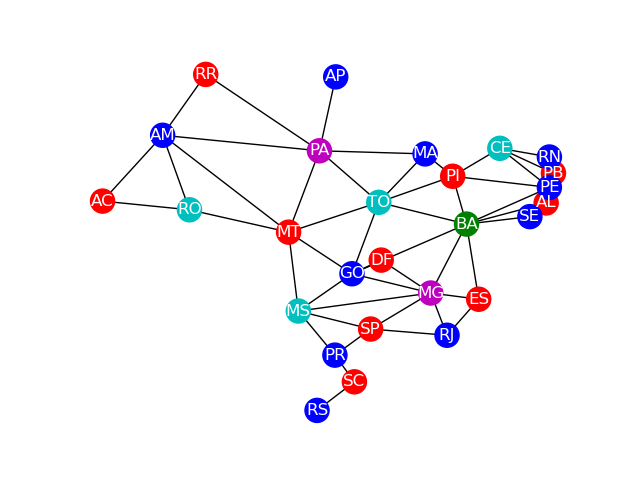
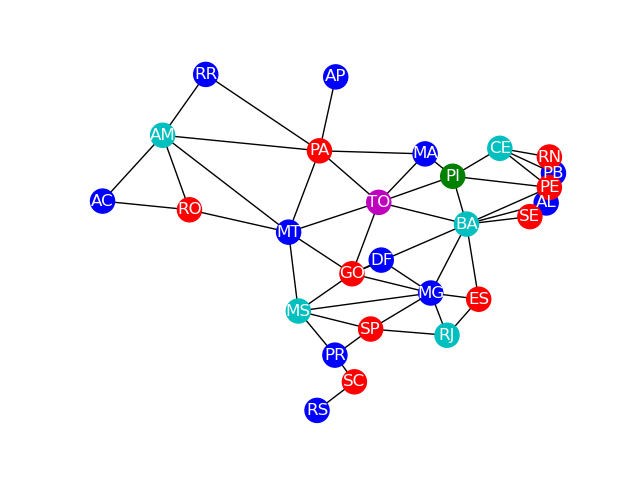
update readme

diff --git a/exercicios/exercicio_brasil.py b/exercicios/exercicio_brasil.py
@@ -32,33 +32,27 @@ array_coords = np.array([[76,  265],  # 'AC'
                          [406, 471],  # 'SP'
                          [416, 267]])  # 'TO'
 
-max_x = array_coords[:, 0].max()
-max_y = array_coords[:, 1].max()
+max_x = array_coords[:, 0].max()//2
+max_y = array_coords[:, 1].max()//2
 
-array_coords_exp = np.ones(shape=(array_coords.shape[0],array_coords.shape[1]+1),dtype=int)
-array_coords_exp[:,:-1] = array_coords
+array_coords_exp = np.ones(shape=(array_coords.shape[0], array_coords.shape[1]+1), dtype=int)
+array_coords_exp[:, :-1] = array_coords
 
-
-matriz_translacao_1 = np.array([[1, 0, -max_x//2],
-                                [0, 1, -max_y//2],
+matriz_translacao_1 = np.array([[1, 0, -max_x],
+                                [0, 1, -max_y],
                                 [0, 0, 1]])
 
-
 matriz_reflexao = np.array([[1, 0, 0],
-                           [0, -1, 0],
-                           [0, 0, 1]])
+                            [0, -1, 0],
+                            [0, 0, 1]])
 
-
-matriz_translacao_2 = np.array([[1, 0, max_x//2],
-                                [0, 1, max_y//2],
+matriz_translacao_2 = np.array([[1, 0, max_x],
+                                [0, 1, max_y],
                                 [0, 0, 1]])
 
 array_coords = matriz_translacao_2 @ matriz_reflexao @ matriz_translacao_1 @ array_coords_exp.T
 
-
-
-dict_coords = dict([(ind, t[:-1])
-                    for ind, t in enumerate(array_coords.T)])
+dict_coords = dict([(ind, t[:-1]) for ind, t in enumerate(array_coords.T)])
 
 dict_vizinhanca = {'AC': ["AM", "RO"],
                    'AL': ['PE', "SE", "BA"],
@@ -92,7 +86,6 @@ matriz_adjacencia = []
 args_pandas = {'index': estados, 'columns': estados}
 def to_pandas(x): return pd.DataFrame(x, **args_pandas)
 
-
 for chave, lista in dict_vizinhanca.items():
     linha = [int(sigla in lista) for sigla in estados]
     matriz_adjacencia.append(linha)
@@ -100,8 +93,7 @@ for chave, lista in dict_vizinhanca.items():
 matriz_adjacencia = to_pandas(matriz_adjacencia)
 
 # print(matriz_adjacencia)
-dict_graus = dict([(chave, len(lista))
-                   for chave, lista in dict_vizinhanca.items()])
+dict_graus = dict([(chave, len(lista)) for chave, lista in dict_vizinhanca.items()])
 
 d = np.diag(list(dict_graus.values()))
 lista_qtd_vizinhos = list(dict_graus.values())
@@ -138,7 +130,7 @@ if __name__ == "__main__":
                                      segundos=5,
                                      pos=dict_coords)
         coloracao_para_png(matriz_adjacencia,
-                           obs_max_cores.sequencia_vetor_cores[-1],
+                           obs_min_cores.sequencia_vetor_cores[-1],
                            caminho+'/grafo_'+nome_exercicio,
                            labels,
                            pos=dict_coords)

diff --git a/exercicios/README.md b/exercicios/README.md
@@ -21,40 +21,40 @@
 ## Problema do canil <a name = "cachorros"></a>
 
 ### Mínimo de casinhas: 3
-|                   Por etapas                    |               Final                |
-| :---------------------------------------------: | :--------------------------------: |
-| ![](Cachorros/animacao_coloracao_Cachorros.gif) | ![](Cachorros/grafo_Cachorros.png) |
+|                   Por etapas                       |               Final                |              Outras combinações   |
+| :---------------------------------------------:    | :--------------------------------: |:--------------------------------: |
+| ![](Cachorros/animacao_coloracao_Cachorros.gif)    | ![](Cachorros/grafo_Cachorros.png) |![](Cachorros/combinacoes_cores_grafo_Cachorros.gif) |
 
 ## Problema dos containers <a name = "containers"></a>
 
 ### Mínimo de containers: 4
-|                    Por etapas                     |                Final                 |
-| :-----------------------------------------------: | :----------------------------------: |
-| ![](Containers/animacao_coloracao_Containers.gif) | ![](Containers/grafo_containers.png) |
+|                    Por etapas                       |                Final                 |                Outras combinações    |
+| :-----------------------------------------------:   | :----------------------------------: | :----------------------------------: |
+| ![](Containers/animacao_coloracao_Containers.gif)   | ![](Containers/grafo_containers.png) | ![](Containers/combinacoes_cores_grafo_containers.gif) |
 
 ## Problema dos aquários <a name = "peixes"></a>
 
 ### Mínimo de aquários: 3
-|                     Por etapas                      |                 Final                  |
-| :-------------------------------------------------: | :------------------------------------: |
-| ![](Peixes/animacao_coloracao_peixes_min_cores.gif) | ![](Peixes/grafo_min_cores_Peixes.png) |
+|                     Por etapas                      |                 Final                  |                 Outras combinações     |
+| :-------------------------------------------------: | :------------------------------------: | :------------------------------------: |
+| ![](Peixes/animacao_coloracao_peixes_min_cores.gif) | ![](Peixes/grafo_min_cores_Peixes.png) | ![](Peixes/combinacoes_cores_grafo_peixes.gif) |
 
 ### Máximo de aquários: 4
 |                     Por etapas                      |                 Final                  |
 | :-------------------------------------------------: | :------------------------------------: |
-| ![](Peixes/animacao_coloracao_peixes_max_cores.gif) | ![](Peixes/grafo_max_cores_Peixes.png)|
+| ![](Peixes/animacao_coloracao_peixes_max_cores.gif) | ![](Peixes/grafo_max_cores_Peixes.png) |
 
 ## Coloração do mapa do Brasil <a name = "brasil"></a>
 
 ### Mínimo de cores: 4
-|                      Por etapas                      |                  Final                  |
-| :--------------------------------------------------: | :-------------------------------------: |
-| ![](Brasil/animacao_coloracao_Brasil_min_cores.gif) | ![](Brasil/grafo_min_cores_Brasil.png) |
+|                      Por etapas                      |                  Final                  |                  Outras combinações     |
+| :--------------------------------------------------: | :-------------------------------------: | :-------------------------------------: |
+| ![](Brasil/animacao_coloracao_Brasil_min_cores.gif)  | ![](Brasil/grafo_min_cores_Brasil.png)  | ![](Brasil/combinacoes_cores_grafo_Brasil.gif)  |
 
 ### Máximo de cores: 5
 |                      Por etapas                      |                  Final                  |
 | :--------------------------------------------------: | :-------------------------------------: |
-| ![](Brasil/animacao_coloracao_Brasil_max_cores.gif) | ![](Brasil/grafo_max_cores_Brasil.png) |
+| ![](Brasil/animacao_coloracao_Brasil_max_cores.gif)  | ![](Brasil/grafo_max_cores_Brasil.png)  |
 
 
 
